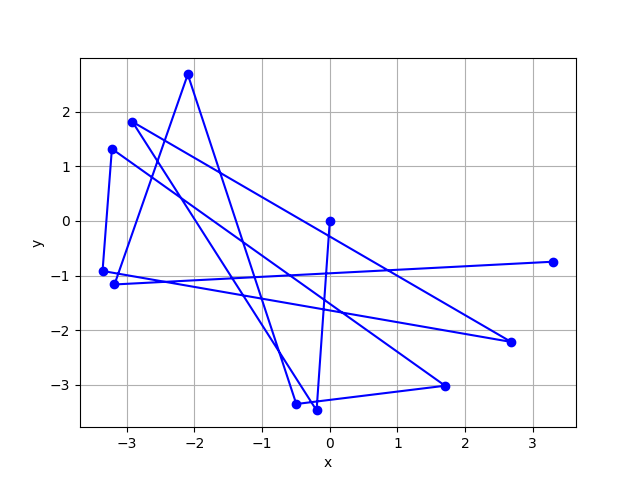
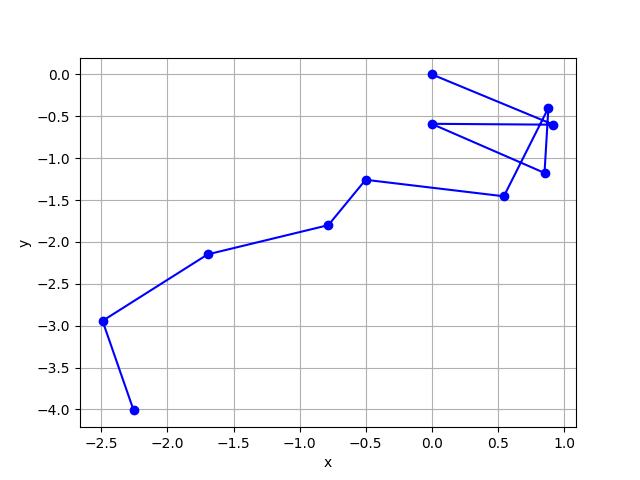
Completati temi d'eame

diff --git a/Library/library.py b/Library/library.py
@@ -165,7 +165,7 @@ Merging dizionari: merged_dict = {**my_dict, **another_dict}
 '''
 
 # Funzione di controllo degli argomenti da modificare di volta in volta nel main
-def controllo_arg() :
+def controllo_arg () :
     if len (sys.argv) != num_arg :       
         '''
         Super NB! Nel main inserirò una variabile int chiamata num_arg. prima di chiamare la funzione 
@@ -202,26 +202,29 @@ def leggi_file_dati (nome_file) :
     Return: tuple, un array NumPy con i dati e il numero di righe del file.
     '''
     with open (nome_file, 'r') as file:
-        lines = file.readlines()
+        lines = file.readlines ()
         lista_dati = []
         
         for line in lines:
             lista_string = line.split()
             list_float = [float(x) for x in lista_string]
-            lista_dati.append(list_float)
+            lista_dati.append (list_float)
         
-        sample = np.array(lista_dati)
-        N_righe = len(sample)
+        sample = np.array (lista_dati)
+        N_righe = int (len (sample))
     
     return sample, N_righe              # attenzione che ritorna due valori (array e int)!!!
 
 # ---- ---- ---- ---- ---- ---- ---- ---- ---- ---- ---- ---- ---- ----
 
 '''
+    # Creazione file.txt
     np.savetxt ("nome_del_file.txt", vettore)     # qui il file.txt è creato in automatico
 
+    # Lettura file.txt
     vettore = np.loadtxt ("nome_del_file.txt")                    # legge il file.txt e salva tutto all'interno di un vettore numpy
     vettore = np.loadtxt ("nome_del_file.txt", unpack = True)     # unpack in questo caso è necessario perchè ho più colonne
+    vettore = np.loadtxt ("nome_del_file.txt", delimiter = " ")   # tra " " mette di default lo spazio
 '''
 
 
@@ -235,7 +238,14 @@ def sturges (N_eventi) :
 
 # Istogramma
 '''
+    Nbin = sturges (N)
+
     bin_edges = np.linspace(x_min, x_max, Nbin)         # Regola la dimensione dei bin e Nbin = numero di bin
+
+    # Oppure posso usare (se mi serve il contenuto dei bin/altezza dei bin): 
+
+    bin_content, bin_edges = np.histogram (sample, bins=Nbin, range = (min(sample), max(sample)))      
+    # bin_content: contenuto/altezza di ogni bin (è una lista), bin_edges: larghezza dei bin
     fig, ax = plt.subplots (nrows = 1, ncols = 1)
     ax.hist (sample, bins=bin_edges, color = 'orange')
     ax.set_title ('Nome istogramma', size = 14)
@@ -351,7 +361,7 @@ def fattoriale (N) :
 def coeff_binom (N, k) :
     if N == 0 & N < k :
         return 0
-    return fattoriale (N) / fattoriale (k) * fattoriale (N-1)
+    return fattoriale (N) / (fattoriale (k) * fattoriale (N-1))
     
 # ---- ---- ---- ---- ---- ---- ---- ---- ---- ---- ---- ---- ---- ----
 
@@ -552,6 +562,7 @@ def seed_range (xMin, xMax, N, seed = 0.) :
 # ---- ---- ---- ---- ---- ---- ---- ---- ---- ---- ---- ---- ---- ----
 
 #Funzione che genera numeri pseudocasuali tramite l'argoritmo Try And Catch e distribuzione uniforme rand_range
+# con intervalli da passare
 def rand_TAC (f, x_min, x_max, y_max) :
     x = rand_range (x_min, x_max)
     y = rand_range (0, y_max)
@@ -562,7 +573,7 @@ def rand_TAC (f, x_min, x_max, y_max) :
 
 # ---- ---- ---- ---- ---- ---- ---- ---- ---- ---- ---- ---- ---- ----
 
-#Funzione che genera numeri pseudocasuali con TAC e distribuz. gaussiana
+#Funzione che genera numeri pseudocasuali con TAC e distribuz. gaussiana a partire da parametri gaussiani
 def rand_TAC_gaus (mu, sigma, N) :
     sample = []
     y_max = 1.
@@ -589,7 +600,7 @@ def rand_TAC_norm (f, x_min, x_max, y_max, loc, scale) :
 # ---- ---- ---- ---- ---- ---- ---- ---- ---- ---- ---- ---- ---- ----
 
 #Funzione che genera numeri pseudocasuali con TAC e distribuz. exp
-def rand_TAC_exp (lambd, N) :       # N numero di num pseudocas da generare
+def rand_TAC_exp (lambd, N) :       # N numero di num. pseudocasuali da generare
     sample = []
     y_max = lambd
     tau = 1/lambd

diff --git a/Temi d'esame/Esame 8 luglio 2024/luglio2024.py b/Temi d'esame/Esame 8 luglio 2024/luglio2024.py
@@ -3,8 +3,10 @@ python3 luglio2024.py
 '''
 import numpy as np
 import matplotlib.pyplot as plt
+from iminuit import Minuit
+from iminuit.cost import ExtendedBinnedNLL
 from scipy.stats import rayleigh
-from lib import random_walk, calcola_distanza, media, varianza_bessel, skewness, kurtosis
+from lib import random_walk, calcola_distanza, media, varianza_bessel, skewness, kurtosis, sturges, funzione_fit, Rayleigh
 
 def main () :
 
@@ -35,33 +37,26 @@ def main () :
 
     # Punto 3
     N_persone = 10000
-    coord_x_pop = []
-    coord_y_pop = []
     list_distanze = []
     for _ in range (N_persone) :
         coord_x, coord_y = random_walk (mean, sigma, N_passi)
         distanza = calcola_distanza (0., coord_x[10], 0., coord_y[10])
         list_distanze.append (distanza)
-        coord_x_pop.append (coord_x)
-        coord_y_pop.append (coord_y)
-        
-        '''
-        print ("\n", coord_x_pop, "\n")
-        print (coord_y_pop)
-        '''
 
-    #Nbin = sturges (len (list_distanze))
 
-    #bin_edges = np.linspace (min (coord_x_pop), max (coord_x_pop), Nbin)
+    Nbin = sturges (len (list_distanze))
+
+    bin_content, bin_edges = np.histogram (list_distanze, bins=Nbin, range = (min (list_distanze), max(list_distanze)))
     #print (bin_edges)
+    '''
     fig, ax = plt.subplots (nrows = 1, ncols = 1)
-    ax.hist (list_distanze, bins = 'auto', color = 'orange')
+    ax.hist (list_distanze, bins = bin_edges, color = 'orange')
     ax.set_title ('Plot persone diversamente sobrie', size = 14)
     ax.set_xlabel ('x')
     ax.set_ylabel ('Distanza percorsa')
     ax.grid ()                                        
     plt.savefig ('Persone ubriache.png')
-
+    '''
     # Punto 4
     vett_distanza = np.array (list_distanze)    # casting
 
@@ -71,7 +66,28 @@ def main () :
     print ("\nCurtosi: ", kurtosis (list_distanze))
 
     # punto 5: Fit
+    N_passi = 10
+    funz_costo = ExtendedBinnedNLL (bin_content, bin_edges, funzione_fit)
+    my_minuit = Minuit (funz_costo, N_passi)
+    my_minuit.migrad ()
 
+    print ("Esito del Fit: ", my_minuit.valid)
+    print ("Valore: ", my_minuit.values[0], "+/-", my_minuit.errors[0])
+
+
+    fig, ax = plt.subplots (nrows = 1, ncols = 1)
+    x = np.linspace (min (bin_edges), max (bin_edges), 500)
+
+    ax.hist (list_distanze, bins = bin_edges, color = 'blue')
+    #Normalizzazione tipica delle distribuzioni binnate, prendere la distanza tra due bin edges e moltiplicarla per il numero di eventi/entrate
+    ax.plot (x, N_persone * (bin_edges[1] - bin_edges[0]) * Rayleigh (x, *my_minuit.values), label = "Rayleigh Fit", color = "red")          
+    ax.plot (x, N_persone * (bin_edges[1] - bin_edges[0]) * Rayleigh (x, N_passi), label = "True Rayleigh", color = "green")
+    ax.set_title ('Plot persone diversamente sobrie', size = 14)
+    ax.set_xlabel ('x')
+    ax.set_ylabel ('Distanza percorsa')
+    ax.legend ()
+    ax.grid ()                                        
+    plt.savefig ('Persone ubriache.png')
 
     plt.show ()
 

diff --git a/Temi d'esame/Esame 16 settembre 2024/main.py b/Temi d'esame/Esame 16 settembre 2024/main.py
@@ -2,8 +2,10 @@
 python3 main.py
 '''
 import numpy as np
-from lib import additive_recurrence, MC_mod, function
+from lib import additive_recurrence, MC_mod, function, integral_Crude_MC
 import matplotlib.pyplot as plt
+
+
 def main () :
 
     # Punto 1 e 2
@@ -17,43 +19,52 @@ def main () :
         number = generatore.get_number ()
         lista_num.append (number)
 
-    print (lista_num[:10])
+    #print (lista_num[:10])
 
     # Punto 3
     int_val, int_incertezza = MC_mod (function, 0., 1., 0., 2., 1000, generatore)
     print ("\nValore dell'integrale: ", int_val, "+/-", int_incertezza, "\n")
 
     # Punto 4
-    N_toys = 1000
+    N_toys = 100
     N_points = 10
-    N_points_max = 25000
+    list_points = []
+    incerteza_list = []
 
-    seq_N = []
-    seq_sigma = []
-    seq_sigma_t = []
-    seq_mean = []
+    while (N_points < 25000) :
+        integral_list = []
+        for contatore_toys in range (N_toys) :
+            integral_val, incertezza_val = MC_mod (function, 0., 1., 0., 2., N_points, generatore)
+            integral_list.append (integral_val)
+        incerteza_list.append (np.std (integral_list))         # sono indentati allo stesso modo (infatti hanno la stessa lunghezza)
+        list_points.append (N_points)
+        N_points = N_points * 2
 
-    while N_points < N_points_max :
-        print ('running with', N_points, 'points')
-        integrals = []
-        for i_toy in range (N_toys): 
-            result = MC_mod (function, 0., 1., 0., 2., N_points, generatore)
-            integrals.append (result[0])
-            if i_toy == 0 : 
-                seq_sigma.append (result[1])  
-        seq_N.append (N_points)
-        seq_sigma_t.append (np.std (integrals))
-        seq_mean.append (np.mean (integrals))
-        N_points *= 2
-    print ('DONE')
 
     # Grafico
     fig, ax = plt.subplots ()
-    ax.plot (seq_N, seq_mean, "o-", label = "mean", color = "blue")
-    ax.plot (seq_N, seq_sigma, "o-", label = "estimate", color = "red")
-    ax.plot (seq_N, seq_sigma_t, "o-", label = "toys", color = "orange")
+    ax.plot (list_points, incerteza_list, "o-", label = "Incertezza MC_mod", color = "blue")
+
+
+    # Punto 5
+    N_toys = 100
+    N_points = 10
+    list_points = []
+    incerteza_list = []
+
+    while (N_points < 25000) :
+        integral_list = []
+        for contatore_toys in range (N_toys) :
+            integral_val, incertezza_val = integral_Crude_MC (function, 0., 1., N_points)
+            integral_list.append (integral_val)
+        incerteza_list.append (np.std (integral_list))         # sono indentati allo stesso modo (infatti hanno la stessa lunghezza)
+        list_points.append (N_points)
+        N_points = N_points * 2
+
+    ax.plot (list_points, incerteza_list, "o-", label = "Incertezza Crude MC", color = "red")
     ax.set_xscale ("log")
-    #ax.set_yscale ("log")
+    ax.set_yscale ("log")
+    ax.legend ()
     ax.grid ()
 
     plt.show ()

diff --git a/Temi d'esame/Esame 8 luglio 2024/lib.py b/Temi d'esame/Esame 8 luglio 2024/lib.py
@@ -1,6 +1,7 @@
 import numpy as np
 import random
 from math import ceil
+from scipy.stats import rayleigh
 
 def sturges (N_eventi) :
     return int (ceil (1 + np.log2 (N_eventi))) 
@@ -25,7 +26,6 @@ def rand_TAC_gaus (mu, sigma) :
     while (y > np.exp (-0.5 * ( ((x - mu) / sigma)**2) ) ) :
         x = rand_range (x_sx, mu + 3. * sigma)
         y = rand_range (0., y_max)
-        print (x)
     return x
 
 # ---- ---- ---- ---- ---- ---- ---- ---- ---- ---- ---- ---- ----
@@ -34,10 +34,10 @@ def random_walk (mean, sigma, N_passi) :
     asse_x = [0.]
     asse_y = [0.]
     for _ in range (N_passi) : 
-        theta = rand_range (0., 360.)
+        theta = rand_range (0., 2*np.pi)
         ro = rand_TAC_gaus (mean, sigma)
-        x = ro * np.cos (theta)
-        y = ro * np.sin (theta)
+        x = asse_x[-1] + ro * np.cos (theta)
+        y = asse_y[-1] + ro * np.sin (theta)
         asse_x.append (x)
         asse_y.append (y)
     return asse_x, asse_y
@@ -46,6 +46,11 @@ def random_walk (mean, sigma, N_passi) :
 
 def calcola_distanza (x_0, x_n, y_0, y_n) :
     return np.sqrt( ((x_n - x_0)**2) + ((y_n - y_0)**2) )
+
+# ---- ---- ---- ---- ---- ---- ---- ---- ---- ---- ---- ---- ----
+
+def funzione_fit (bin_edges, N) :
+    return rayleigh.cdf (bin_edges, loc = 0, scale = np.sqrt (N/2))
 
 # ---- ---- ---- ---- ---- ---- ---- ---- ---- ---- ---- ---- ----
 
